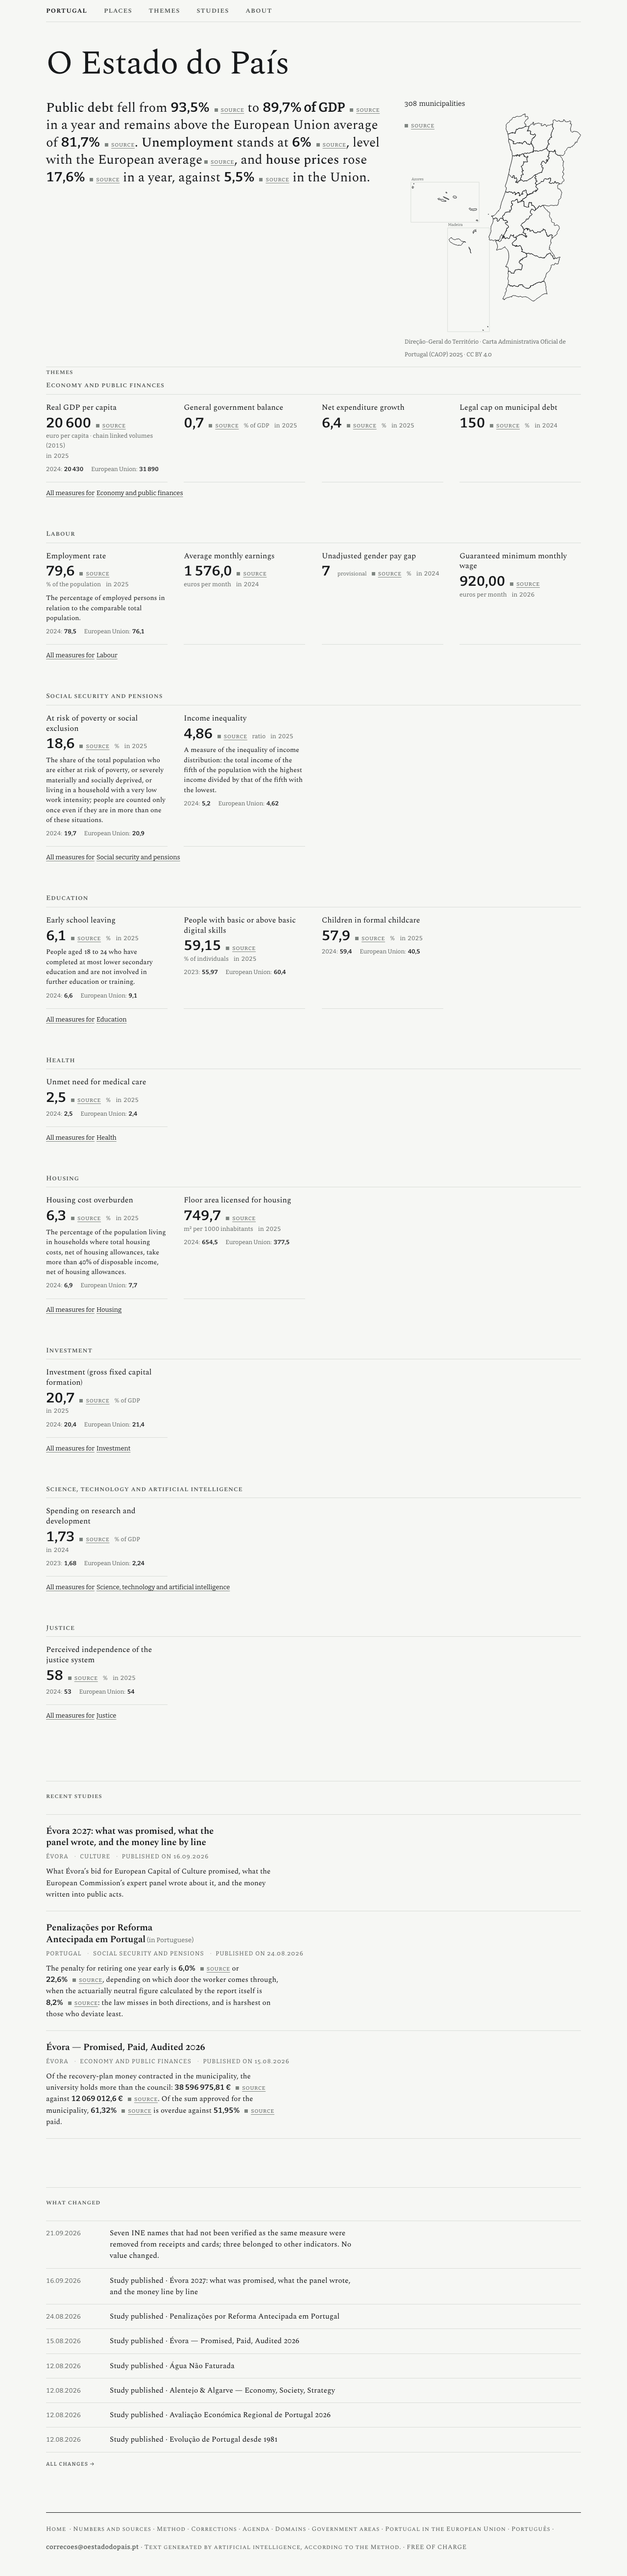
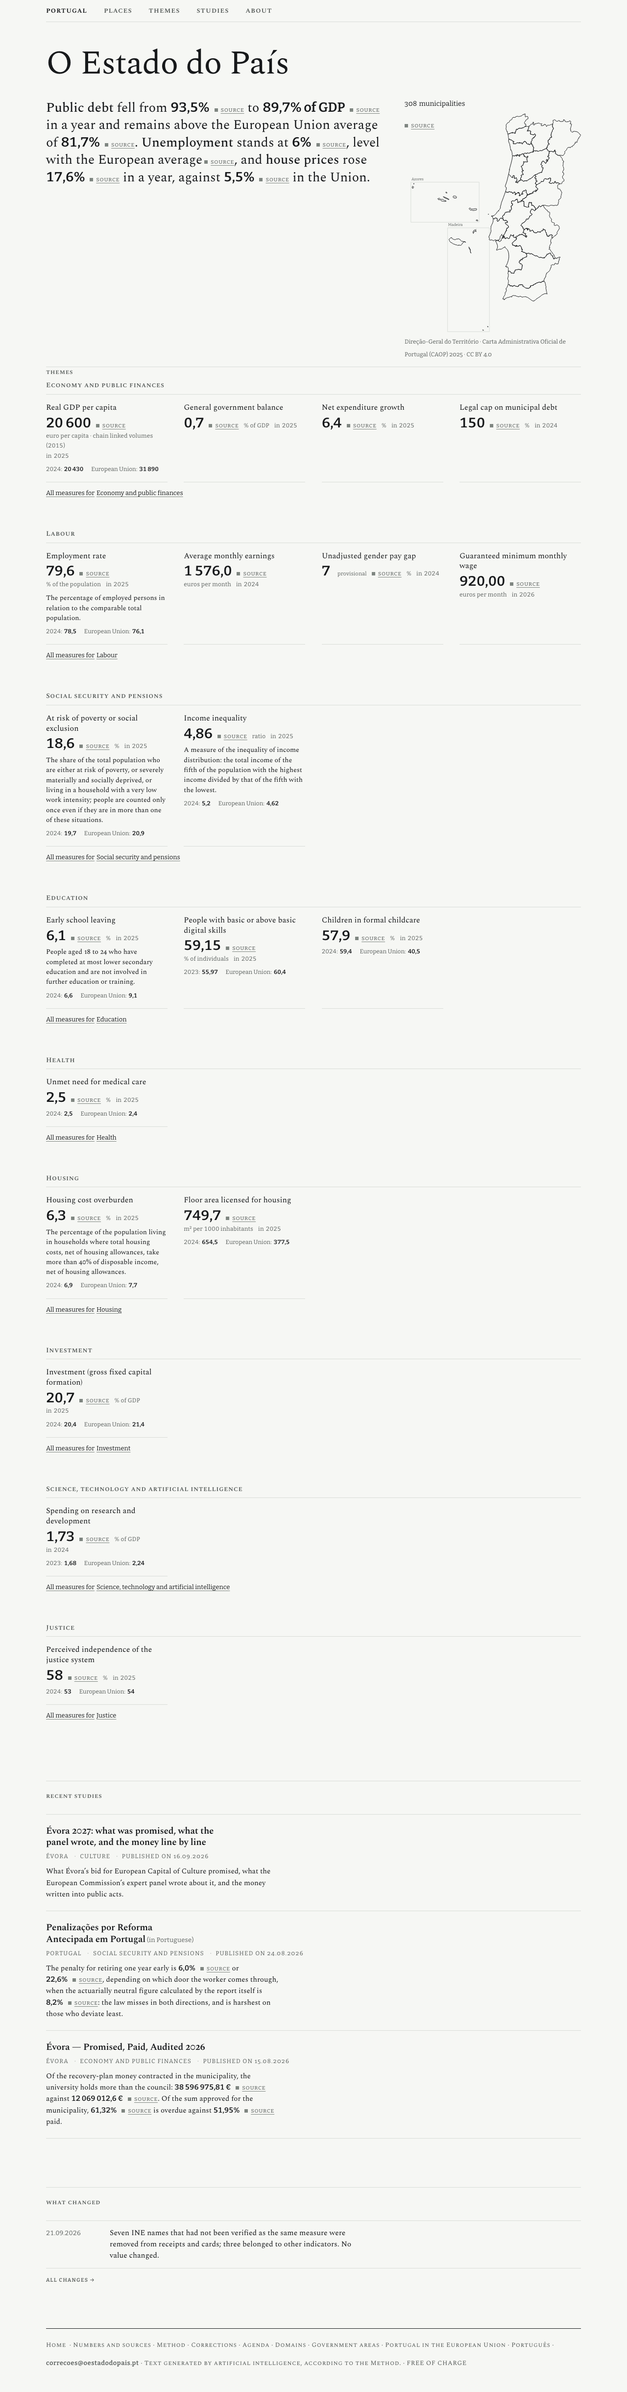
B1c: o relatório da passagem da tarde, as vinte e uma provas e as capturas
A secção nova diz a decisão, o que ela mudou e as conferências que se
correram: a construção inteira, as vinte e uma plantas do check:pais e a
planta do gate:html que mudou de página com a marca da data de publicação. Os
três portões inteiros não correram nesta cabeça, e fica dito. As quatro
capturas da página do país foram refeitas; as quatro do registo são os mesmos
bytes, conferidos por sha256 contra o manifesto anterior.

Claude-Session: https://claude.ai/code/session_016dojDrtR3Thizhpckp9ENd

diff --git a/design/especime-v3/medicoes/b1c-2026-09-22/LEIA-ME.md b/design/especime-v3/medicoes/b1c-2026-09-22/LEIA-ME.md
@@ -2,7 +2,7 @@
 
 Construtor: Claude Opus 5, 22.09.2026, na worktree `oquemudou-2026-09-22`, sobre `main` em `83e9df2d`.\
 Brief: `design/observatorio/BRIEF-B1c-o-que-mudou-no-seu-lugar.md`.\
-Os três portões inteiros e os três códigos estão na última secção, lidos dos ficheiros `.codigo`.
+Duas passagens: a construção, e a passagem curta da tarde, depois da leitura do lugar de direção. As contagens e as capturas deste ficheiro são as da segunda; o que a primeira mediu e o que mudou entre as duas está na última secção.
 
 ## O que se mediu antes, e duas coisas que o brief diz e a medição desmente
 
@@ -25,20 +25,20 @@ A medição de partida foi feita sobre `main` em `83e9df2d`, com `npm run build`
 | # | O que | A medida |
 | --- | --- | --- |
 | 1 | O âmbito das três listas numa função só, `src/lib/mudancas.mjs` | as três listas contadas em `dist/`, na tabela abaixo |
-| 2 | O teto de oito e a porta «Todas as mudanças» / «All changes» na página do país e nas de lugar | 8 linhas em cada uma das quatro páginas medidas; uma porta por página |
+| 2 | O teto de oito e a porta «Todas as mudanças» / «All changes» na página do país e nas de lugar | 1 linha na página do país e 8 em Évora, nas duas edições; uma porta por página |
 | 3 | O registo em `/correcoes` e `/en/corrections`, por data, com o lugar de cada linha e a sua porta | 30 linhas por edição, 30 portas de lugar; a norma, o canal e as revisões de proveniência intactos |
 | 4 | A definição do marcador uma vez por página | 1 por página, antes e depois |
-| 5 | As três células novas do `check:pais` com plantas | `plantas-b1c.json`, 20 provas |
+| 5 | As três células novas do `check:pais` com plantas | `plantas-b1c.json`, 21 provas |
 | 6 | O inventário, as listas fechadas do `check:voz` e o mapa do repositório | `check:voz` a 0 |
 | 7 | Relatório, capturas e os três portões | este ficheiro, `capturas-b1c.json`, os `.codigo` |
 
 ### As contagens
 
-| Página | Antes | Depois |
-| --- | ---: | ---: |
-| País (`/`, `/en`) | 30 | **8** (1 mudança do projeto, 7 publicações) |
-| Évora (`/municipios/evora`, `/en/municipalities/evora`) | 10 | **8** |
-| Registo (`/correcoes`, `/en/corrections`) | 16 linhas datadas | **30** (1 mudança do projeto, 13 publicações, 16 correções) |
+| Página | Antes | Depois da construção | Depois da passagem da tarde |
+| --- | ---: | ---: | ---: |
+| País (`/`, `/en`) | 30 | 8 (1 mudança do projeto, 7 publicações) | **1** (a mudança do projeto de 21.09) |
+| Évora (`/municipios/evora`, `/en/municipalities/evora`) | 10 | 8 | **8** |
+| Registo (`/correcoes`, `/en/corrections`) | 16 linhas datadas | 30 | **30** (1 mudança do projeto, 13 publicações, 16 correções) |
 
 As 16 correções do livro-razão inteiro, as 13 publicações do arquivo e a mudança declarada do projeto estão todas no registo, e a célula A3 fecha a construção se faltar ou sobrar uma. Nenhuma linha foi inventada e nenhuma foi apagada: o que saiu da primeira página está no registo, com a porta para o lugar a que pertence.
 
@@ -46,8 +46,8 @@ Os três lugares que o registo nomeia, com a porta de cada um: **Portugal → `/
 
 ### Duas consequências que o lugar de direção deve ler
 
-1. **A página do país ficou sem nenhuma linha de correção.** Das 16 entradas do livro-razão, nenhuma é de uma medida de `DOMINIO_DAS_MEDIDAS` nem de uma das sete linhas que a leitura do país cita: são dez do PRR de Évora, quatro da contagem dos estudos sobre Évora e duas do PIB por habitante do Alentejo. Pelo âmbito que o brief escreve, nenhuma pertence à página do país. O que lá fica são sete publicações e a mudança declarada de 21.09 — e **três dessas sete publicações são exactamente os três estudos que a secção «Estudos recentes», logo acima, já mostra**. A repetição é a que o §0 do brief apontava nas treze publicações, reduzida de treze para sete, e fica dita porque o teto não a resolve: resolve-a uma decisão sobre se as publicações pertencem à página do país quando ela já tem a secção dos estudos recentes.
-2. **A página do país a 1 280 px encurtou de 6 695 px (medida da segunda passagem da peça 3) para 5 166 px.** São 22 linhas a menos.
+1. **A página do país ficou sem nenhuma linha de correção.** Das 16 entradas do livro-razão, nenhuma é de uma medida de `DOMINIO_DAS_MEDIDAS` nem de uma das sete linhas que a leitura do país cita: são dez do PRR de Évora, quatro da contagem dos estudos sobre Évora e duas do PIB por habitante do Alentejo. Pelo âmbito que o brief escreve, nenhuma pertence à página do país. O que lá fica são sete publicações e a mudança declarada de 21.09 — e **três dessas sete publicações são exactamente os três estudos que a secção «Estudos recentes», logo acima, já mostra**. A repetição é a que o §0 do brief apontava nas treze publicações, reduzida de treze para sete, e o teto não a resolvia. **O lugar de direção decidiu-a nessa tarde e as publicações saíram da página do país**; a decisão e o que ela mudou estão na penúltima secção.
+2. **A página do país a 1 280 px encurtou de 6 695 px (medida da segunda passagem da peça 3) para 5 166 px.** São 22 linhas a menos. Com a decisão da tarde ficou em 4 791 px.
 
 ### O lugar de uma linha
 
@@ -59,7 +59,7 @@ Uma linha não alcançada por nenhuma dessas declarações fecha a construção,
 
 | Célula | Antes | Agora | Planta a morder |
 | --- | --- | --- | --- |
-| `check:pais` **A1** | não existia | uma linha fora do âmbito da sua página fecha a construção; o âmbito é lido das declarações, sem chamar a função que compõe a página | uma linha de correção de Évora posta na lista do país: código 1. A lista de Évora declarada de outro lugar: código 1 |
+| `check:pais` **A1** | não existia | uma linha fora do âmbito da sua página fecha a construção; o âmbito é lido das declarações, sem chamar a função que compõe a página. Desde a tarde de 22.09, uma PUBLICAÇÃO na página do país também fecha | uma linha de correção de Évora posta na lista do país: código 1. Uma publicação copiada do registo para a lista do país: código 1. A lista de Évora declarada de outro lugar: código 1 |
 | `check:pais` **A2** | não existia | mais do que oito linhas numa lista, ou fora da ordem, fecham | uma linha duplicada na lista do país: código 1 |
 | `check:pais` **A3** | não existia | o registo tem exactamente as entradas do livro inteiro, as publicações do arquivo e as mudanças declaradas, e cada mudança declarada uma vez | uma linha retirada do registo: código 1 |
 | `check:pais` **C1** | contava as linhas de correção da primeira página contra o livro INTEIRO | a contagem contra o livro passou para a A3, no registo; a C1 continua a exigir que cada linha nasça de uma entrada inteira do livro, com o índice e a data, e a correr agora sobre **todas** as listas medidas, e não só sobre a primeira página | um índice que não existe no livro: código 1 |
@@ -74,7 +74,7 @@ Nenhum portão desceu no que protege. A C1, a M3 e a M2 passaram a medir mais su
 
 ### As provas
 
-`node tests/pais/pais.mjs --json design/especime-v3/medicoes/b1c-2026-09-22/plantas-b1c.json`: **20 provas, todas a morder** ([plantas-b1c.json](plantas-b1c.json)). Uma delas é o positivo conhecido («páginas sem estrago», código 0); as outras dezanove fecham a construção com a célula esperada. As quatro rotas que o ficheiro copiava passaram a oito: sem o registo e sem uma página de lugar, a régua não media nenhuma das listas novas.
+`node tests/pais/pais.mjs --json design/especime-v3/medicoes/b1c-2026-09-22/plantas-b1c.json`: **21 provas, todas a morder** ([plantas-b1c.json](plantas-b1c.json)). Uma delas é o positivo conhecido («páginas sem estrago», código 0); as outras vinte fecham a construção com a célula esperada. As quatro rotas que o ficheiro copiava passaram a oito: sem o registo e sem uma página de lugar, a régua não media nenhuma das listas novas.
 
 `OEDP_MEDICOES=… node tests/pais/portoes.mjs --only html`, `--only html-mudanca-fora-de-rota` e `--only feixe-correcao`: as três a morder ([plantas-portoes-html.json](plantas-portoes-html.json), [plantas-portoes-html-mudanca-fora-de-rota.json](plantas-portoes-html-mudanca-fora-de-rota.json), [plantas-portoes-feixe-correcao.json](plantas-portoes-feixe-correcao.json)), com os sha256 de cada ficheiro antes e depois da reposição iguais.
 
@@ -94,20 +94,34 @@ Oito, em [capturas/b1c-2026-09-22](../../capturas/b1c-2026-09-22/): a primeira p
 
 | Captura | Altura | Deslocamento lateral | Linhas | Portas de lugar |
 | --- | ---: | ---: | ---: | ---: |
-| `depois-pais-pt-390` | 6 838 px | 0 | 8 | — |
-| `depois-pais-pt-1280` | 5 166 px | 0 | 8 | — |
-| `depois-pais-en-390` | 6 892 px | 0 | 8 | — |
-| `depois-pais-en-1280` | 5 255 px | 0 | 8 | — |
+| `depois-pais-pt-390` | 6 197 px | 0 | 1 | — |
+| `depois-pais-pt-1280` | 4 791 px | 0 | 1 | — |
+| `depois-pais-en-390` | 6 250 px | 0 | 1 | — |
+| `depois-pais-en-1280` | 4 880 px | 0 | 1 | — |
 | `depois-registo-pt-390` | 9 966 px | 0 | 30 | 30 |
 | `depois-registo-pt-1280` | 9 375 px | 0 | 30 | 30 |
 | `depois-registo-en-390` | 10 061 px | 0 | 30 | 30 |
 | `depois-registo-en-1280` | 9 270 px | 0 | 30 | 30 |
 
-Zero deslocamentos laterais, nenhum valor ou selo partido, nenhum selo sem `nowrap`, a porta «Todas as mudanças» uma vez em cada página do país, e uma definição do marcador em cada página que tem marcador.
+Zero deslocamentos laterais, nenhum valor ou selo partido, nenhum selo sem `nowrap`, a porta «Todas as mudanças» uma vez em cada página do país, e uma definição do marcador em cada página que tem marcador. As quatro da página do país foram refeitas na passagem da tarde; as quatro do registo são os mesmos bytes, conferidos por sha256 contra o manifesto anterior.
 
 ## Os commits
 
-Oito, por caminhos explícitos, com os dois trailers num bloco contíguo. O último só leva os ficheiros dos portões e esta tabela.
+Dez, por caminhos explícitos, com os dois trailers num bloco contíguo. Os três portões inteiros correram na cabeça `dee436cf`, que é a do sétimo; o oitavo guarda os registos deles, e a passagem da tarde ficou nos dois últimos. É o lugar de direção que corre os três portões na cabeça final.
+
+## A passagem de 22.09.2026, depois da leitura do lugar de direção
+
+O lugar de direção leu a construção e decidiu duas coisas. As duas correções ao §0 do brief ficam registadas como erros de medição dele: contou `<time>` onde a data era um `<span>`, e leu uma definição repetida onde havia uma só.
+
+**As publicações saem de «O que mudou» na página do país.** A secção «Estudos recentes», logo acima, é a notícia dos estudos, e a página dos estudos tem-nos todos; repeti-los como mudanças é o que o diretor apontou, reduzido de treze para sete. A página do país fica com as correções das suas linhas e as mudanças declaradas do projeto, no máximo oito, com a mesma porta «Todas as mudanças» para o registo, onde as treze publicações continuam com a sua data. Hoje dá **uma linha**, a mudança declarada de 21.09 («Sete nomes do INE…»), e amanhã duas, com a I129, que está a aterrar noutro ramo com a sua mudança declarada. É o que mudou no país, e uma linha honesta vale mais do que sete repetidas.
+
+A célula **A1 passa a recusar uma publicação na página do país**, com planta: uma linha de publicação copiada do registo para a lista do país dá código 1. A **A3 não muda**: o registo continua a exigir as 16 entradas do livro, as 13 publicações e a mudança declarada, nem uma a mais nem uma a menos, e é a célula que garante que nada se perdeu no caminho.
+
+**As páginas de região e de distrito não ganham «O que mudou» neste bloco**, e é decisão do lugar de direção: as duas correções do PIB por habitante do Alentejo ficam no registo, com a porta para `/regioes/alentejo`, e a secção nessas páginas faz-se no B3, que as refaz pela mesma gramática.
+
+O que a passagem mediu, em `dist/`, nas duas edições: a lista do país passou de 8 linhas para **1**; Évora ficou nas mesmas **8**; o registo ficou nas mesmas **30**. A altura da página do país a 1 280 px passou de 5 166 para **4 791 px** (en: de 5 255 para 4 880). As quatro capturas da página do país foram refeitas; as quatro do registo são byte a byte as mesmas.
+
+**As conferências desta passagem, e só as que a mudança toca:** `npm run build` inteiro (código 0, e com ele o `check:pais` e o `check:voz` na cadeia), as **21 plantas** de `tests/pais/pais.mjs` (todas a morder, incluindo a nova da A1), e a planta `html` de `tests/pais/portoes.mjs`, que mudou de página com a marca da data de publicação e continua a morder. **Os três portões inteiros não correram nesta cabeça**: o lugar de direção acrescenta os registos da sessão e corre-os na cabeça final.
 
 ## Conferência final
 
